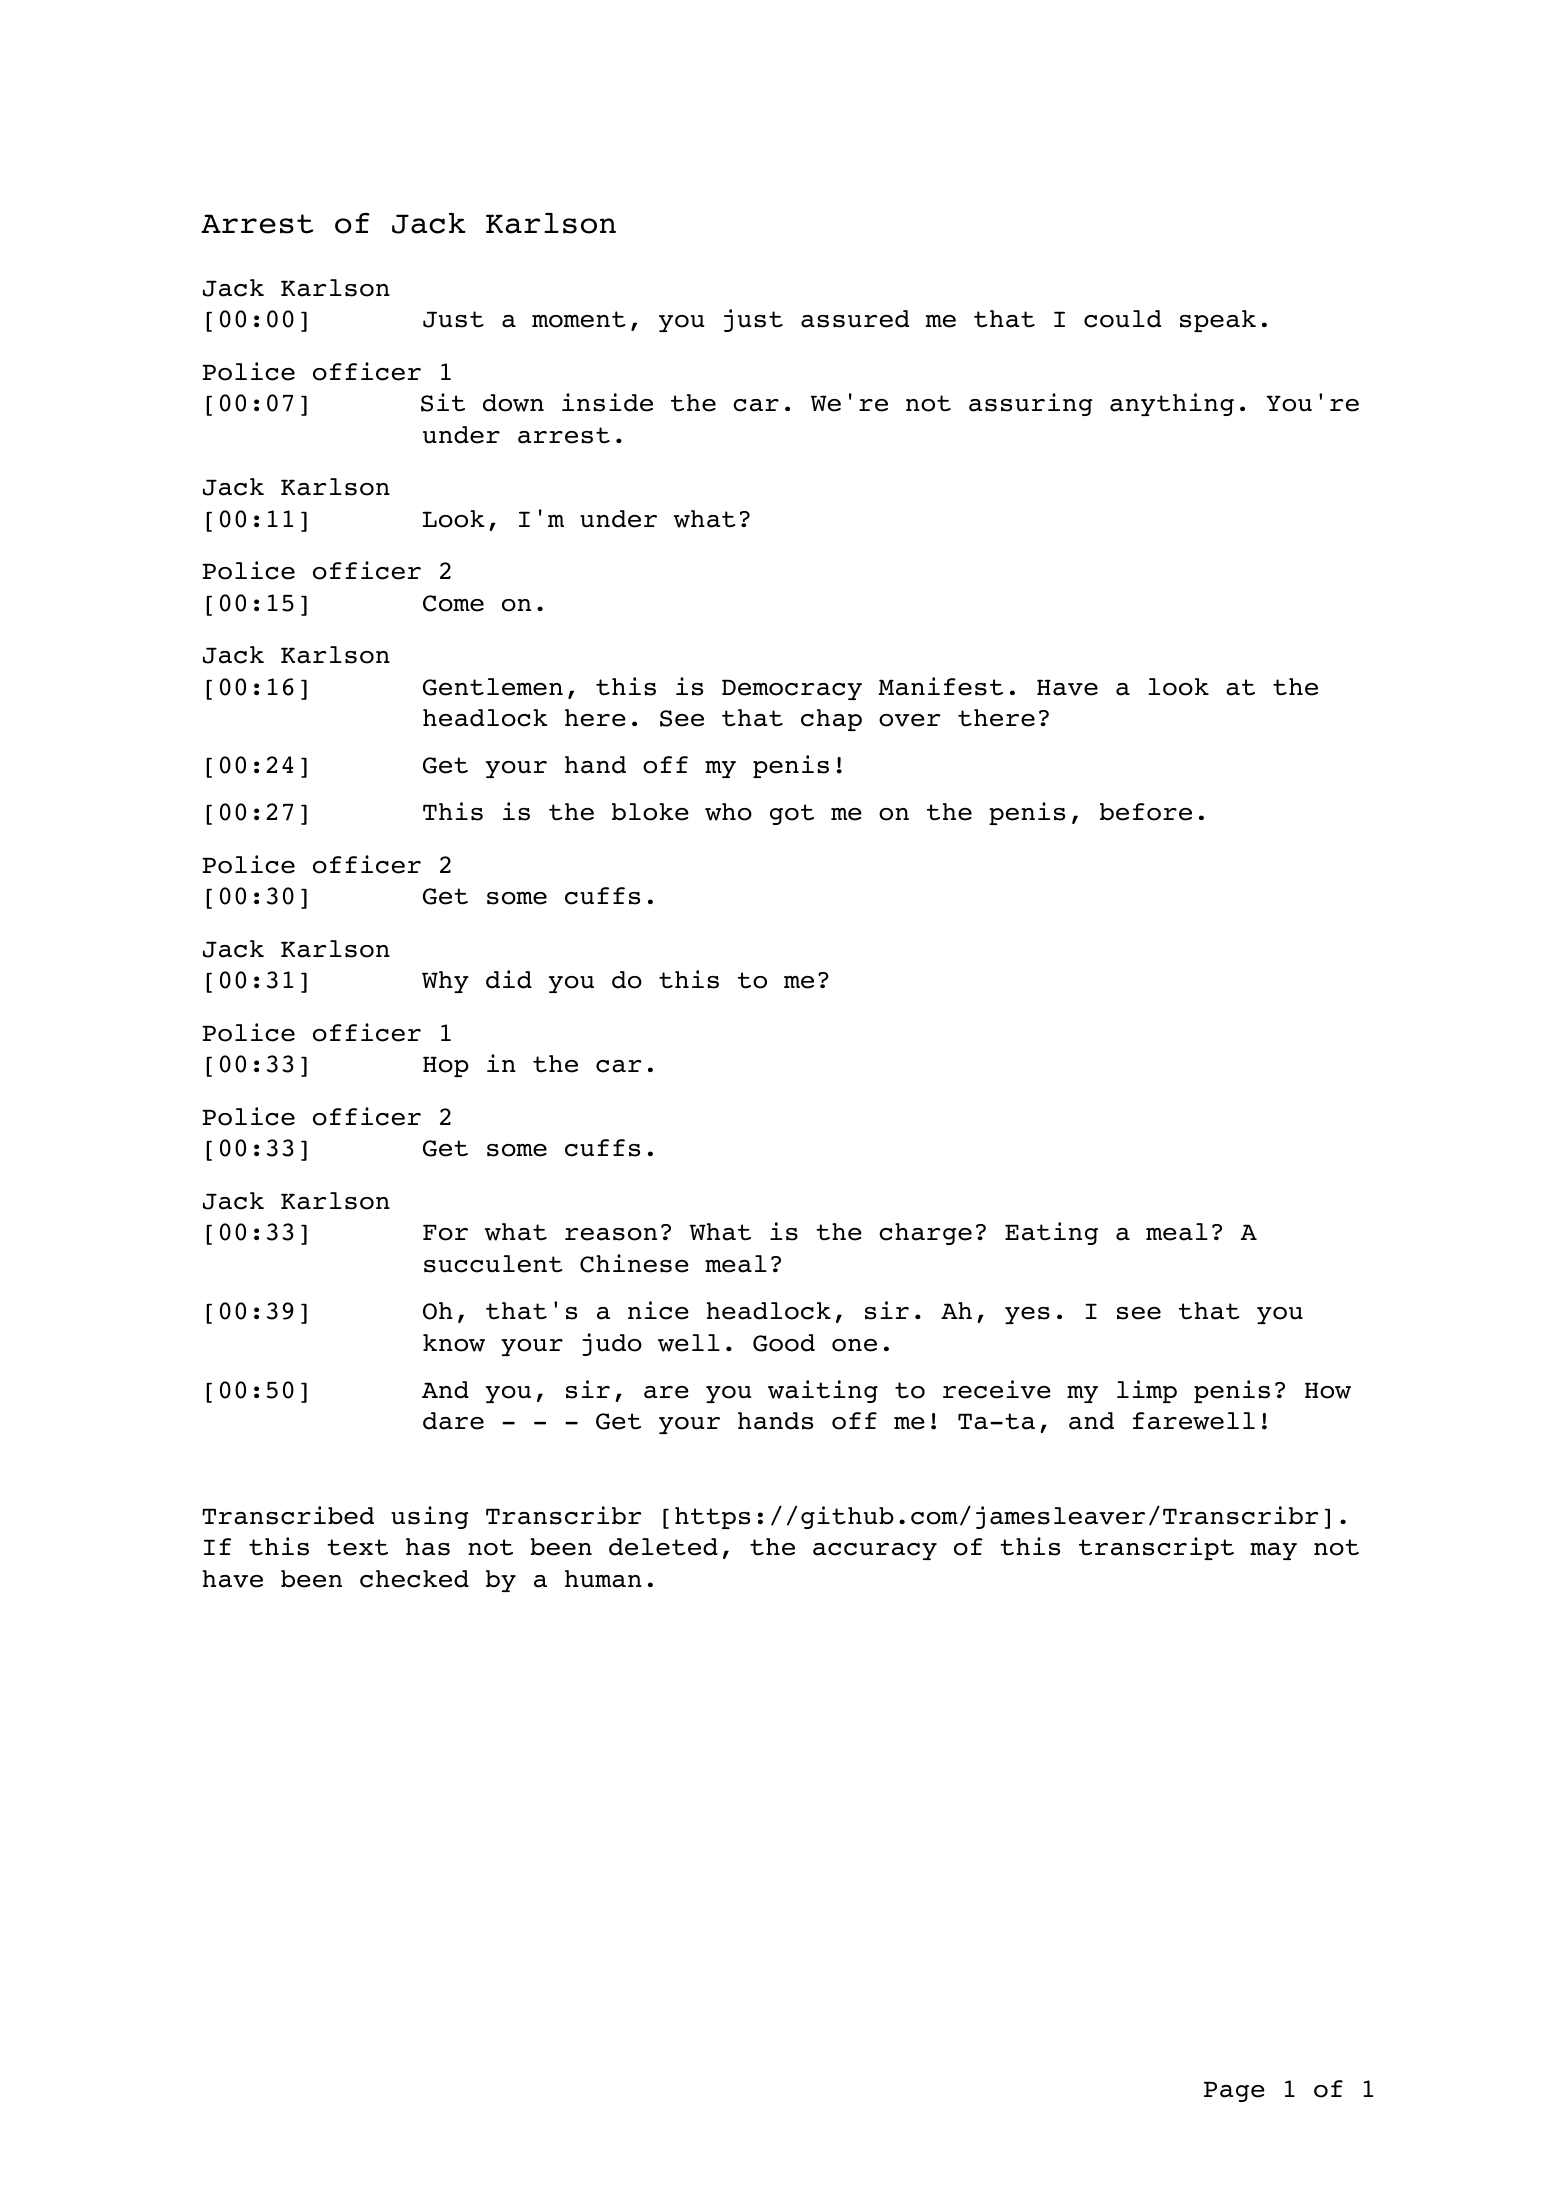
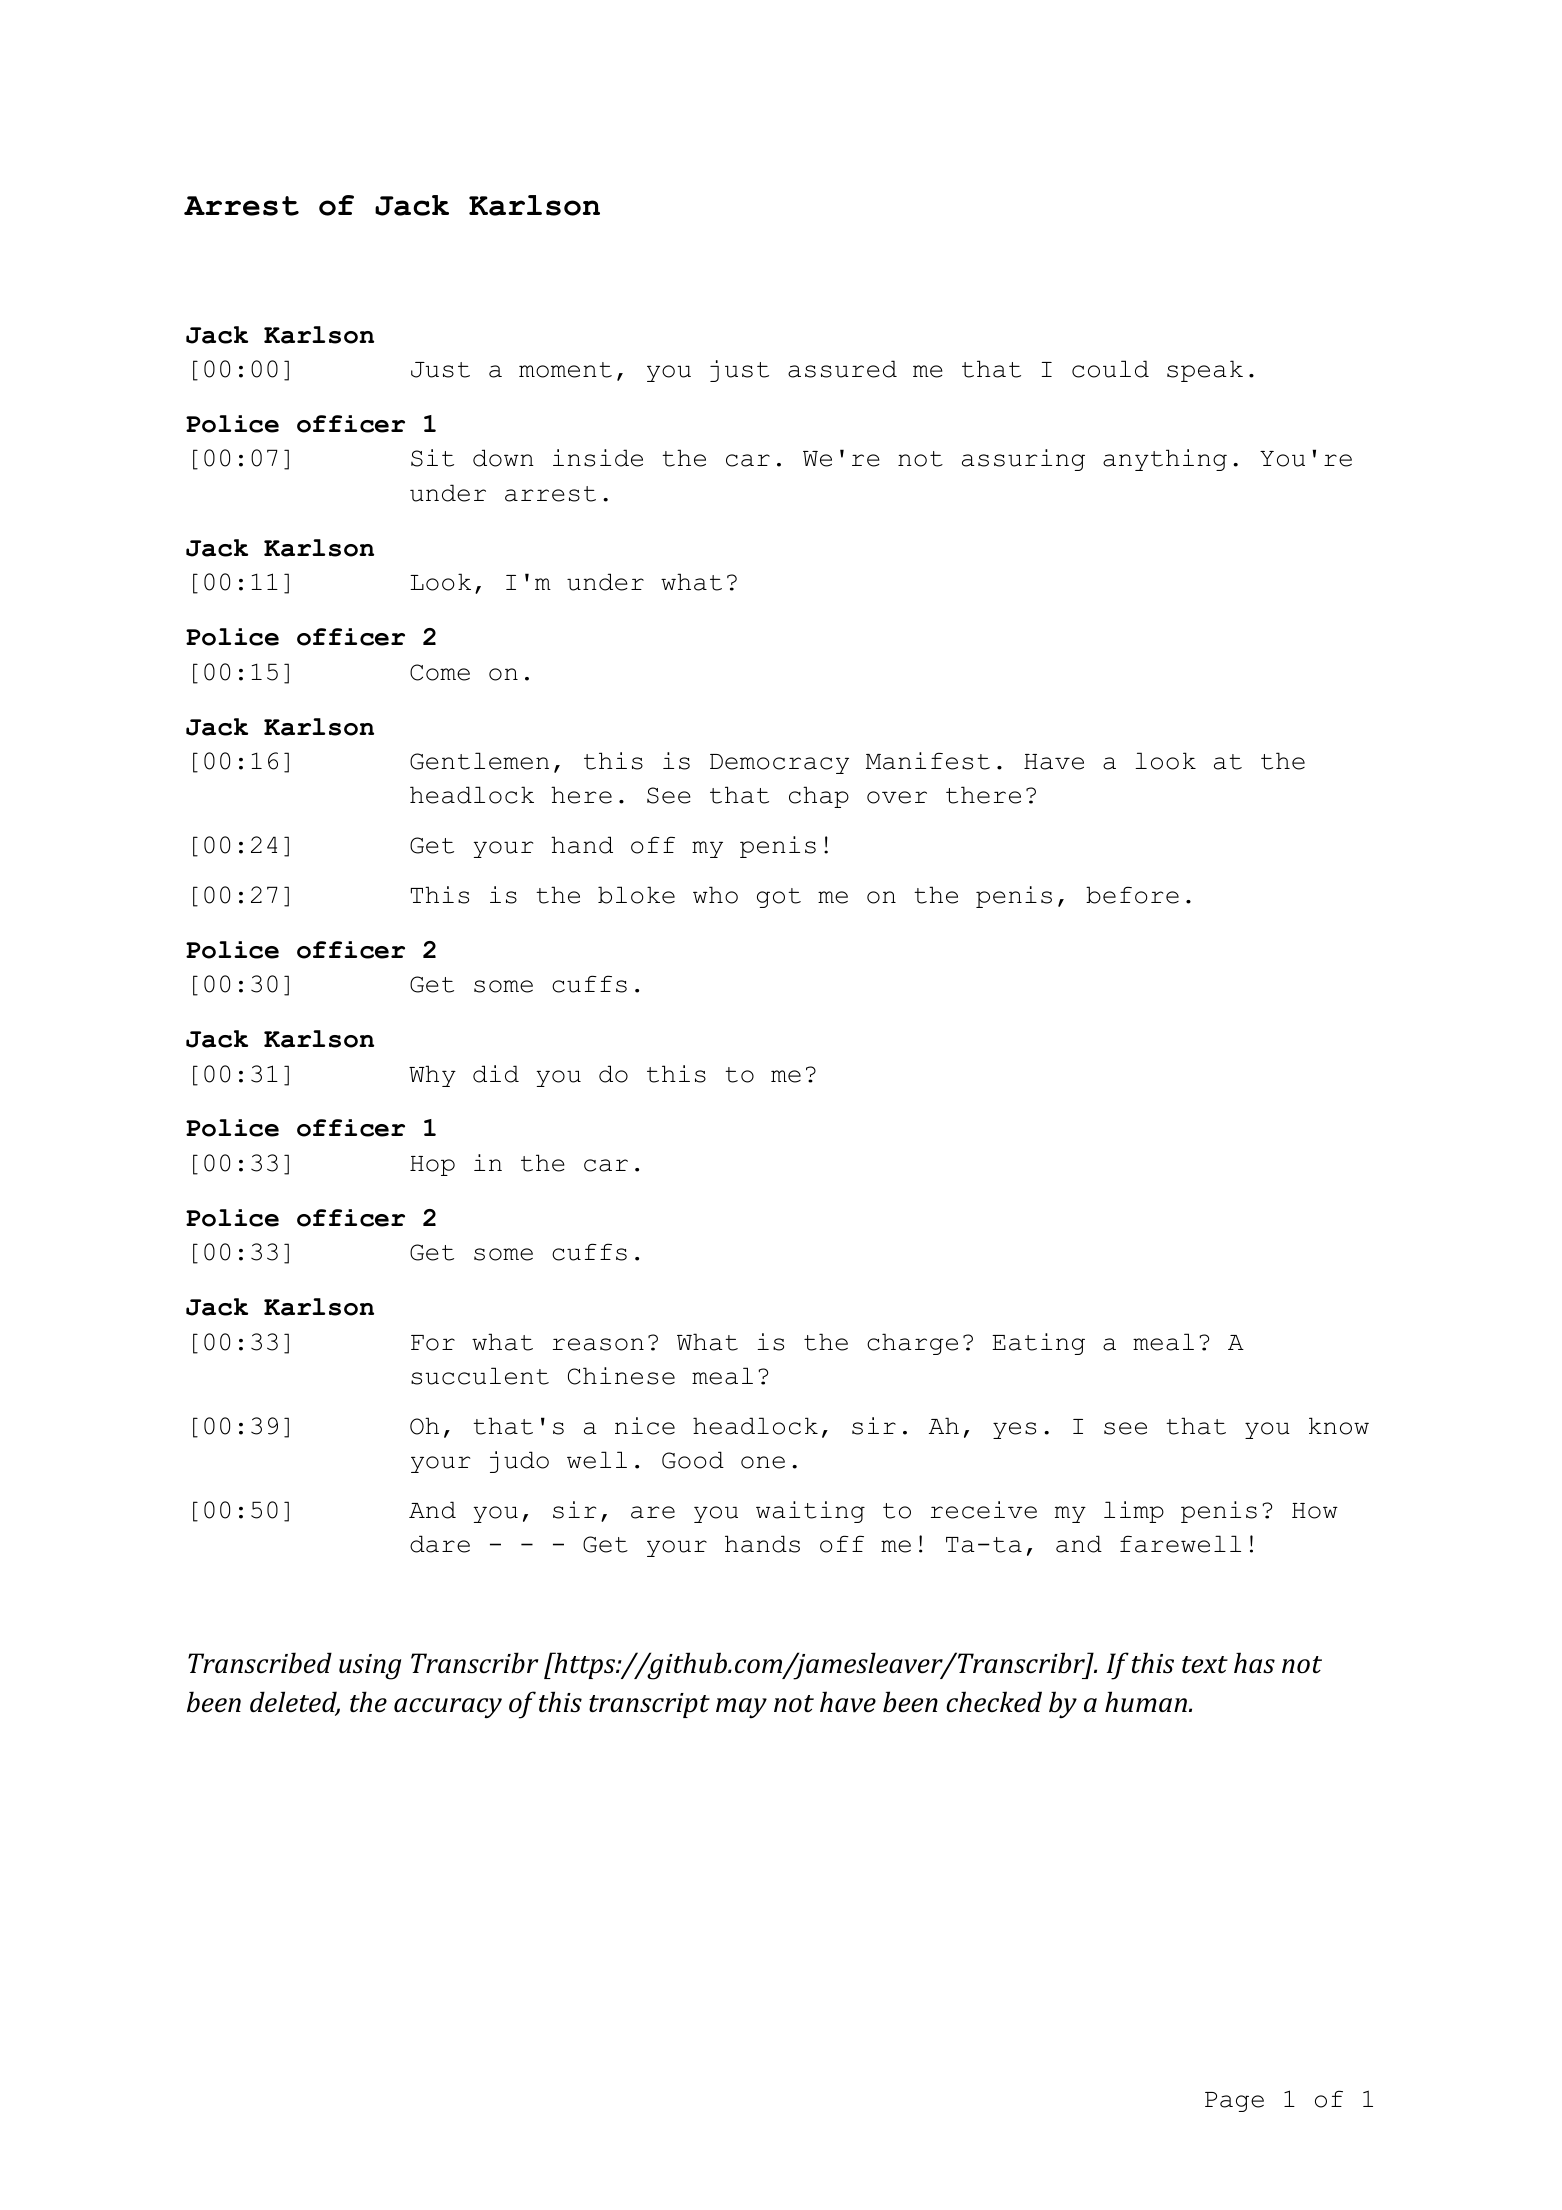
Render the result screenshot from Word, not the PDF export
The regenerated shot lost the formatting: bold title, bold speaker
labels and the italic disclaimer were all flat monospace. The original
was a .docx rendered by Word; I had rendered the app's PDF export
instead, which is separate reportlab code setting Courier throughout.

Same document, produced by the app, converted through Word so the
styling is what a user actually opens - and the disclaimer now reads in
italic serif as it does in the file.

diff --git a/README.md b/README.md
@@ -87,7 +87,7 @@ Review pane — speakers labelled, text corrected against the audio:
 
 Result — the saved transcript:
 
-<img width="781" height="1104" alt="A finished Transcribr transcript: a titled, speaker-labelled document with timestamps" src="docs/screenshot-result.png" />
+<img width="781" height="1105" alt="A finished Transcribr transcript: a titled, speaker-labelled document with timestamps" src="docs/screenshot-result.png" />
 
 
 ## What this repository contains
